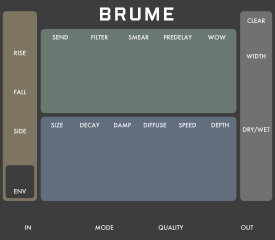
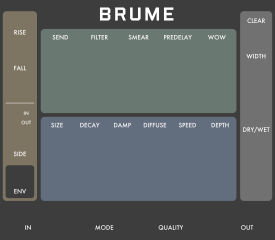
Add Brume's follower In/Out switch to the panel and drop the follower glyph

diff --git a/src/Brume.cpp b/src/Brume.cpp
@@ -235,7 +235,8 @@ struct Brume : Module {
 		configButton(CLEAR_PARAM, "Clear");
 		configParam<FollowerTimeQuantity>(RISE_PARAM, 0.f, 1.f, 0.25f, "Rise");
 		configParam<FollowerTimeQuantity>(FALL_PARAM, 0.f, 1.f, 0.5f, "Fall");
-		configSwitch(SOURCE_PARAM, 0.f, 1.f, 0.f, "Follower source", {"In", "Out"})->description =
+		// Up (1) is In, the default.
+		configSwitch(SOURCE_PARAM, 0.f, 1.f, 1.f, "Follower source", {"Out", "In"})->description =
 			"Out follows the reverb before Dry/wet. A patched Side overrides both";
 
 		// Percentages where there is no natural unit; SEND and WIDTH read
@@ -339,7 +340,7 @@ struct Brume : Module {
 		// Envelope follower: SIDE if patched (5 V = 1.0), else the input or,
 		// with SOURCE at Out, the previous sample's wet.
 		const bool sidePatched = inputs[SIDE_INPUT].isConnected();
-		const bool followWet = params[SOURCE_PARAM].getValue() > 0.5f;
+		const bool followWet = params[SOURCE_PARAM].getValue() < 0.5f;
 		const int source = sidePatched ? 2 : followWet ? 3 : (lPatched || rPatched) ? 1 : 0;
 		if (source != followerSource) {
 			followerSource = source;
@@ -504,10 +505,11 @@ struct BrumeWidget : ModuleWidget {
 		}
 
 		// FOLLOW column.
-		addParam(createParamCentered<RoundBlackKnob>(mm2px(Vec(10.66, 38.072)), module, Brume::RISE_PARAM));
-		addParam(createParamCentered<RoundBlackKnob>(mm2px(Vec(10.66, 58.983)), module, Brume::FALL_PARAM));
-		addInput(createInputCentered<PJ301MPort>(mm2px(Vec(10.66, 79.109)), module, Brume::SIDE_INPUT));
-		addChild(createLightCentered<MediumLight<WhiteLight>>(mm2px(Vec(10.66, 20.361)), module, Brume::ENV_LIGHT));
+		addParam(createParamCentered<RoundBlackKnob>(mm2px(Vec(10.66, 27.000)), module, Brume::RISE_PARAM));
+		addParam(createParamCentered<RoundBlackKnob>(mm2px(Vec(10.66, 46.150)), module, Brume::FALL_PARAM));
+		addParam(createParamCentered<CKSS>(mm2px(Vec(7.8, 63.045)), module, Brume::SOURCE_PARAM));
+		addInput(createInputCentered<PJ301MPort>(mm2px(Vec(10.66, 75.010)), module, Brume::SIDE_INPUT));
+		addChild(createLightCentered<MediumLight<WhiteLight>>(mm2px(Vec(10.66, 11.000)), module, Brume::ENV_LIGHT));
 		addOutput(createOutputCentered<PJ301MPort>(mm2px(Vec(10.66, 95.000)), module, Brume::ENV_OUTPUT));
 
 		// Output column: CLEAR on top; WIDTH and DRY/WET are plate controls.

diff --git a/Brume.md b/Brume.md
@@ -89,7 +89,7 @@ The follower column sits at the left edge.
 
 *Rise* and *Fall:* How fast the envelope follows your signal up and down, from 10 ms to 5 s. Fast Rise with slow Fall gives a swell that lingers; the response is quick at first and slower toward the top.
 
-*In / Out switch:* What the follower listens to. **In** (the default) follows the input. **Out** follows the reverb itself, before Dry/Wet mixes in the dry signal. Because the envelope then moves the very reverb it is listening to, Out makes a feedback loop: a tail can open up Decay and keep itself going, or duck its own Send and pump.
+*In / Out switch:* What the follower listens to. **In** (up, the default) follows the input. **Out** (down) follows the reverb itself, before Dry/Wet mixes in the dry signal. Because the envelope then moves the very reverb it is listening to, Out makes a feedback loop: a tail can open up Decay and keep itself going, or duck its own Send and pump.
 
 *Side:* A sidechain input. When something is patched here, the follower listens to it whichever way the switch is set (5 V is full scale), so another signal such as a kick drum can drive the reverb.
 
